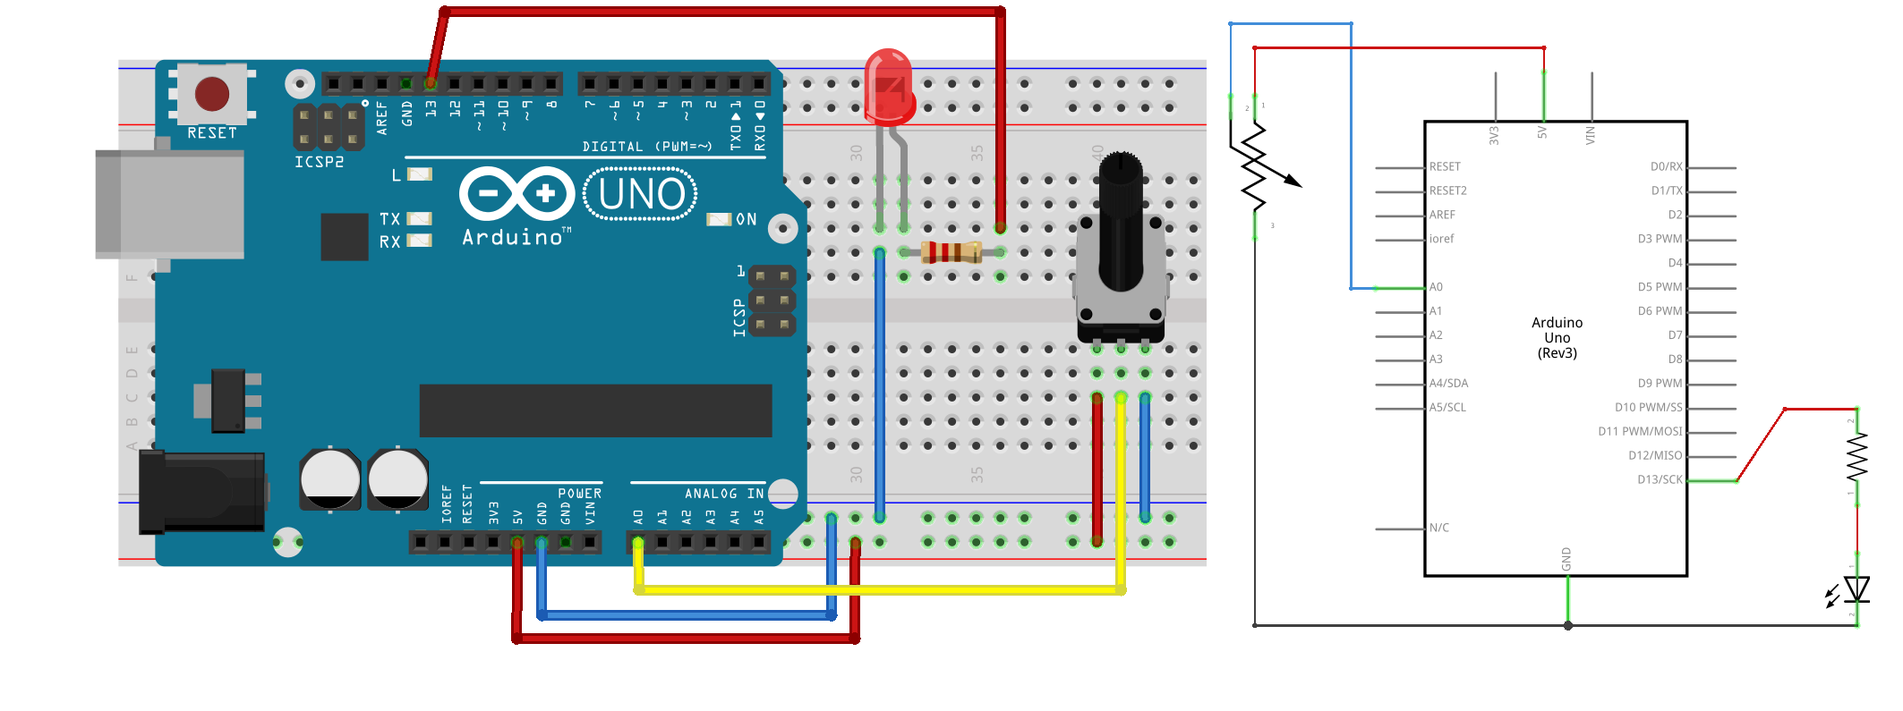
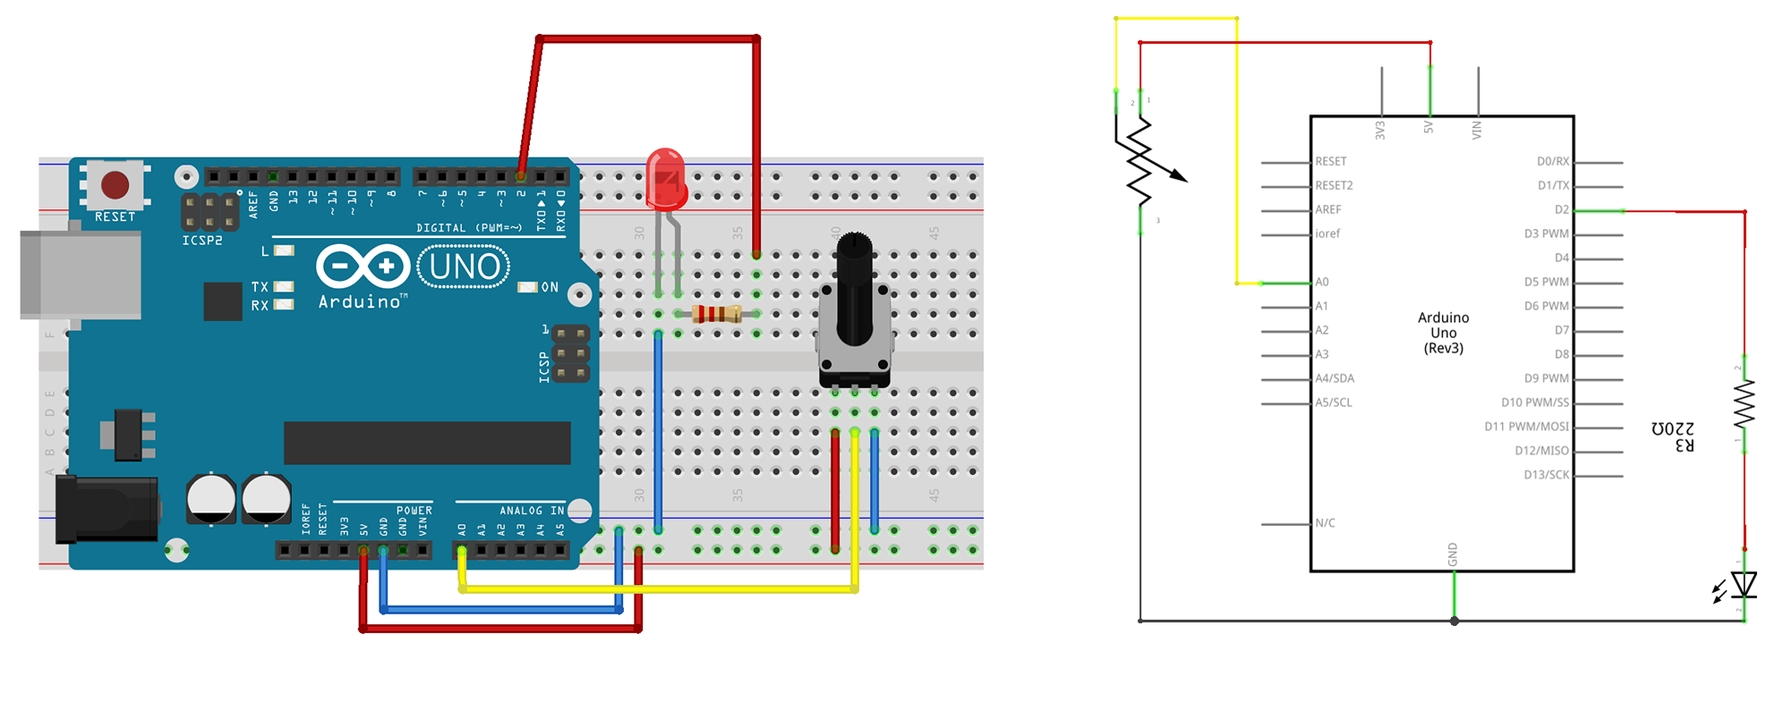
arduino tutorial update

diff --git a/ArduinoTutorial.md b/ArduinoTutorial.md
@@ -25,7 +25,7 @@ level 1 | level 2
 
 ## <a name="platform">2. The Arduino Platform
 
-Arduino is composed of two major parts: **the Arduino board**, which is the piece of hardware you work on when you build your objects, and **the Arduino IDE**, the software you run on your computer. In the IDE to write a sketch (a computer program with a set of instructions) that you upload to the Arduino board. This program tells the board what to do.
+Arduino is composed of two major parts: **the Arduino board**, which is the piece of hardware you work on when you build your objects, and **the Arduino IDE**, the software you run on your computer. In the IDE you write a sketch (a computer program with a set of instructions) that you upload to the Arduino board. This program tells the board what to do.
 
 Community
 https://forum.arduino.cc/
@@ -34,23 +34,20 @@ https://create.arduino.cc/projecthub
 
 [Hackster.io](https://www.hackster.io/) is the world’s fastest growing developer community for learning, programming, and building hardware.
 
-
-
-
 ## <a name="hardware">3. The Arduino Board
-The Arduino board is a small microcontroller board, which is a small circuit  that contains a whole computer on a small chip. This computer is at least a thousand times less powerful than your laptop, but it’s a lot cheaper and very useful to build interesting devices. 
+The Arduino board is a small microcontroller or, in other words, a small computer chip on a circuitboard. This computer is at least a thousand times less powerful than your laptop, but it’s a lot cheaper and very useful to build interesting devices. 
 
-will be using an [keyestudio Uno R3](https://www.keyestudio.com/keyestudio-uno-r3-atmega328p-development-board-usb-cable-for-arduino-p0513-p0513.html) arduino clone. 
+We will be using an [keyestudio Uno R3](https://www.keyestudio.com/keyestudio-uno-r3-atmega328p-development-board-usb-cable-for-arduino-p0513-p0513.html) arduino clone. 
 
 ![](images/arduino/keyesudio_arduino.jpg)
 
 Looking at the Arduino board: you’ll see a black chip with 28 *legs*. That chip is the ATmega328P, the heart of your board. 
-The arduino UNO features:
+The arduino UNO / ATmega328 features:
 - **14 Digital IO pins** (pins 0–13). These can be inputs or outputs, which is specified by the sketch you create.
 - **6 Analog In pins** (pins 0–5). These dedicated analog input pins take analog values (0-5V) (i.e. voltage readings from a sensor) and convert them into a number between 0 and 1023 (= 10 bit).
 - **6 PWM pins** (pins 3, 5, 6, 9, 10, and 11). These are actually 6 of the digital pins that can be reprogrammed for *analog output*.
 - The board can be **powered** from your computer’s USB port (5V), most USB chargers, or an AC adapter (7-12V recommended, 2.1mm barrel tip, center positive).
-- another Atmega16U2 programmed as a **USB-to-serial converter**.
+- And another Atmega16U2 programmed as a **USB-to-serial converter**.
 
 ![Image](images/arduino/uno_layout.jpg)
 *The complete parts  of an Arduino Uno*
@@ -59,24 +56,21 @@ The arduino reference can be found [here](https://www.arduino.cc/en/Reference/Bo
 The complete schematic of Arduino Uno can be found [here](https://www.arduino.cc/en/uploads/Main/arduino-uno-schematic.pdf).
 
 ### The keyestudio Sensor Kits
-We will use 4 slightly different Arduino starter kits developed by Keyes. Each kit contains a UNO R3 Controller board, some sensor modules (e.g. a joystick, three axis acceleration, rotary encoder, potentiometer, soil humidity, line tracking, LM35 temperature, photocell, vibration, gas, water, PIR, color, air quality, sound, ...), some actuators (e.g. LEDs, RGB LED, passive & active buzzer, relay, ...), a Breadboard, some resistors, buttons, jumper wire & a
+We will use Arduino starter kits developed by Keyes. Each kit contains a UNO R3 Controller board, some sensor modules (e.g. a joystick, three axis acceleration, rotary encoder, potentiometer, soil humidity, line tracking, LM35 temperature, photocell, vibration, gas, water, PIR, color, air quality, sound, ...), some actuators (e.g. LEDs, RGB LED, passive & active buzzer, relay, ...), a Breadboard, some resistors, buttons, jumper wire & a
 USB cable. 
 
-Keyestudio also provides a wiki with detailed tutorials using the provided hardware module. The tutorial include connection diagrams and sample codes.
-See the tutorials for [Kit 1](https://wiki.keyestudio.com/Ks0178_keyestudio_Sensor_Kit_for_ARDUINO_starters-_K1), [Kit 2](https://wiki.keyestudio.com/Ks0179_keyestudio_Sensor_Kit_for_ARDUINO_starters-_K2), [Kit 3](https://wiki.keyestudio.com/Ks0179_keyestudio_Sensor_Kit_for_ARDUINO_starters-_K3) & [Kit 4](https://wiki.keyestudio.com/Ks0179_keyestudio_Sensor_Kit_for_ARDUINO_starters-_K4)
+~~Keyestudio also provides a wiki with detailed tutorials using the provided hardware module. The tutorial include connection diagrams and sample codes.
+See the tutorials for [Kit 1](https://wiki.keyestudio.com/Ks0178_keyestudio_Sensor_Kit_for_ARDUINO_starters-_K1), [Kit 2](https://wiki.keyestudio.com/Ks0179_keyestudio_Sensor_Kit_for_ARDUINO_starters-_K2), [Kit 3](https://wiki.keyestudio.com/Ks0179_keyestudio_Sensor_Kit_for_ARDUINO_starters-_K3) & [Kit 4](https://wiki.keyestudio.com/Ks0179_keyestudio_Sensor_Kit_for_ARDUINO_starters-_K4)~~
 
 ## <a name="software">4. The Software (IDE)
-
-The programs you write for your Arduino are known as sketches. They are writen in C++.
-todo: iets meer uitleg
-
+The programs you write for your Arduino are known as sketches. They are written in C/C++.
 
 
 
 ### <a name="IDE">4.1 Arduino IDE Installation Guide
 Download the latest stable version for your operating system from the [Arduino Software Centre.](https://www.arduino.cc/en/Main/Software).        
 #### MacOS
-1. [Download the Application zip file](https://www.arduino.cc/en/Main/Software) whose name wil be something along the lines of  Arduino-1.8.8-macosx.zip.
+1. [Download the Application zip file](https://www.arduino.cc/en/Main/Software) whose name will be something along the lines of  Arduino-1.8.9-macosx.zip.
 2. Extract the zip file.
 3. Open the extracted folder. 
 ![Image](images/arduino/Mac_Download.jpg)
@@ -86,11 +80,15 @@ Download the latest stable version for your operating system from the [Arduino S
 
 #### Windows
 You have some options to install the Arduino IDE. Download & install it [manually](https://www.arduino.cc/en/Guide/Windows) or trough the [MS store](https://www.microsoft.com/fr-be/p/arduino-ide/9nblggh4rsd8?ocid=badge&rtc=1&activetab=pivot:overviewtab).
+
+#### Linux
+Get the latest version from the [download page](https://www.arduino.cc/en/Main/Software). You can choose between the 32, 64 and ARM versions. Install it following [this quick start guide](https://www.arduino.cc/en/Guide/Linux).
+
     
 ### <a name="portID">4.2 Port Identification & Board Selection
 The process for setting up your Arduino and connecting the software to your board differs also related to the computer you are using. 
 
-#### MacOS
+#### MacOS / Linux
 1. Go to Tools >> Serial Port >> then the port beginning with /dev/cu.usbmodem...
 ![port detection](images/arduino/portDetection.png)
 2. Select the right board. Go again to Tools >> Board and select "Arduino/Genuino Uno"
@@ -107,38 +105,53 @@ The process for setting up your Arduino and connecting the software to your boar
 ### <a name="UI">4.3 The User Interface
 ![The User INterface](images/arduino/arduino_ide.svg)
 
-## <a name="started">5. Getting Started: Hello World!<br>  𝔻𝕚𝕘𝕚𝕥𝕒𝕝 𝕆𝕦𝕥𝕡𝕦𝕥𝕤
+## <a name="started">5. Getting Started: Hello World!<br>☞ 𝔻𝕚𝕘𝕚𝕥𝕒𝕝 𝕆𝕦𝕥𝕡𝕦𝕥𝕤 
 
-A "Hello World!" in the Arduino sphere is a blinking LED. You just need an Arduino and a USB cable. Open an new file in the IDE, name and save it. Then type the following text into the Arduino sketch editor.
+
+A "Hello World!" in the Arduino sphere is a blinking LED.  
+You just need an Arduino and a USB cable. Open an new file in the IDE, name and save it.  
+Then type the following text into the Arduino sketch editor but you can skip the lines starting with a `//` as they are comments.
 
 ```C++
-const int ledPin = 13; // LED connected to digital pin 13  
+const int ledPin = 13; 
+// LED connected to digital pin 13  
  
-// the setup function runs once when you press reset or power the board
 void setup() {
-  // initialize digital pin 13 as an output.
+// the setup function runs once when you press reset 
+// or power the board
   pinMode(ledPin, OUTPUT);
+// initialize digital pin 13 as an output.
 }
 
-// the loop function runs over and over again forever
 void loop() {
-  digitalWrite(ledPin, HIGH);   // turn the LED on (HIGH is the voltage level)
-  delay(1000);               // wait for a second
-  digitalWrite(ledPin, LOW);    // turn the LED off by making the voltage LOW
-  delay(1000);               // wait for a second
+// the loop function runs over and over
+  digitalWrite(ledPin, HIGH);   
+  // turn the LED on (HIGH is the voltage level)
+  delay(1000);               
+  // wait for 1000 milliseconds or 1 second
+  digitalWrite(ledPin, LOW);    
+  // turn the LED off by making the voltage LOW
+  delay(1000);               
+  // wait for another second
 }
 ```
-Press the **Verify** button to check your code is correct. If everything is fine, you’ll see the message **“Done compiling”** appear at the bottom of the Arduino IDE. The Arduino IDE has translated your sketch into an executable program that can be run by the board.     
-Now you can **upload** it into the board. Press the Upload to I/O Board button. This will reset the board and force it to stop its current functions. Then sends the current compiled sketch is send to the board, got stored it in its memory. Then the board will run it. When it went fine you'll see the message **“Done uploading”** appear to let you know the process has completed correctly.    
+Press the **Verify** button to check your code is correct.  
+If everything is fine, you’ll see the message **“Done compiling”** appear at the bottom of the Arduino IDE. The Arduino IDE has translated your sketch into an executable program that can be run by the board.  
+Now you can **upload** it into the board.  
+Press the Upload to I/O Board button. This will reset the board and force it to stop its current functions. Then sends the current compiled sketch is send to the board, got stored it in its memory. Then the board will run it. When it went fine you'll see the message **“Done uploading”** appear to let you know the process has completed correctly.
+
 Note the 2 RX and TX LEDs on the board. These flash every time a byte is sent or received. They will flicker during the upload process. If you don’t see that, or if you get an error message instead of “Done uploading”, then there is a communication problem between your computer and Arduino. Make sure you’ve selected the right serial port and confirm that the correct model of Arduino is selected.
    
 Once the code is in your Arduino board, it will stay there until you put another sketch on it. 
 
 Assuming that the sketch has been uploaded correctly, you will see the LED turn on for a second and then turn off for a second.
 
-**A closer look at the code.**   
-`const int ledPin = 13;` Here we specify that the LED we’re blinking is connected to the Arduino pin 13. We are defining a variable of the **type int** with the **name ledpin** and a **value 13**. **Const** stands for constant. It modifies the behavior of the variable by making it **read-only**. The value of the variable  cannot be changed.     
-Alteratively you can use `#define lepdin 13`. It is like an automatic search and replace for your code. In this case, it’s telling Arduino to write the number 13 every time the word *ledPin* appears.
+
+:mag: **A closer look at the code**
+
+`const int ledPin = 13;`   
+Here we specify that the LED we’re blinking is connected to the Arduino pin 13. We are defining a variable of the **type int** with the **name ledpin** and a **value 13**. **Const** stands for constant. It modifies the behavior of the variable by making it **read-only**. The value of the variable  cannot be changed.     
+Alternatively you can use `#define lepdin 13`. It is like an automatic search and replace for your code. In this case, it’s telling Arduino to write the number 13 every time the word *ledPin* appears.
 
 Arduino always expects two functions to exists: `setup()` and `loop()`. The `setup()` function runs once at the beginning of program execution. The `loop()` function is called repeatedly during program execution.   
 
@@ -150,18 +163,18 @@ Arduino always expects two functions to exists: `setup()` and `loop()`. The `set
 
 Writing comments in Arduino; any text beginning with `//` is ignored or use this `/*` `*/` at the start & end for a block of comments. 
 
-See http://arduino.cc/en/Reference/HomePage for documentation of Arduino language constructs. 
+See the [reference page](http://arduino.cc/en/Reference/HomePage) for documentation of Arduino language constructs. 
 
 Do fiddle a bit with the parameters of the delays to see changes in blinking rhythm.
 
 ## 6. Wiring Diagrams & Schematics
-Next we want to wire an external LED to the board. I could explain you here in steps how to make the connections - a 220Ω resistor is connected to pin 13 on the Arduino, the other side of the resistor is then connected to the anode (longest) leg of an LED, the negative or cathode (shortest) leg of the LED is then connected Ground - but wouldn't it be much easier to draw you a sketch or diagram with the wires and components connected to the Arduino?!
+Next we want to wire an external LED to the board. I could explain you here in steps how to make the connections *- the anode (longest) leg of an LED is connected to pin 13 on the Arduino, the negative or cathode (shortest) leg of the LED is then connected Ground -* but wouldn't it be much easier to draw you a sketch or diagram with the wires and components connected to the Arduino?!
 
 Being able to read these diagrams is a very important part of building circuits. Schematics are universal pictograms that allow people all over the world to understand and build electronics. Every electronic component has a very unique schematic symbol. These symbols are then assembled into circuits using a variety of programs. You could also draw them out by hand. If you want to dive deeper in the world of electronics and circuit building, learning to read schematics is a very important step in doing so.
 
-Below is the schematics for the above circuit and, at the right, an much easier to read and wiring diagram (made with [Fritzing](http://fritzing.org/home/)). We will mainly use this kind of wiring diagams in this tutorial.
+Below is the schematics for the above circuit and, at the right, a much easier to read and wire diagram (made with [Fritzing](http://fritzing.org/home/)). We will mainly use this kind of wiring diagams in this tutorial.
 
-![image](images/arduino/blinking_scheme.png)
+![image](images/arduino/digitalOut_noBB.png)
 
 Have a look at this more elaborate tutorial [How to Read a Schematic](https://learn.sparkfun.com/tutorials/how-to-read-a-schematic). 
 
@@ -175,22 +188,28 @@ a component’s leg into one of the holes, and it will establish an electrical c
 More on [How to Use a Breadboard](https://learn.sparkfun.com/tutorials/how-to-use-a-breadboard/)
 
 So our wiring diagram on a breadboard will look more or less like this:
-![image](images/arduino/digitalOut_bb.png)
+![image](images/arduino/digitalOut.png)
 
-## 7. Next step: a Pushbutton<br>𝔻𝕚𝕘𝕚𝕥𝕒𝕝 𝕀𝕟𝕡𝕦𝕥𝕤
+## 7. Next step: a Pushbutton<br>☞ 𝔻𝕚𝕘𝕚𝕥𝕒𝕝 𝕀𝕟𝕡𝕦𝕥𝕤
 
-In our first example, the LED was our actuator, and our Arduino was controlling it. What is missing to complete the picture is a sensor. We will start with the simplest form of sensor available: a pushbutton.
+:triangular_flag_on_post:  
+In our first example, the LED was our actuator, and our Arduino was controlling it. If we image an outside parameter to take control over this LED we need **a sensor**. And the simplest form of sensor available is **a pushbutton**.
 
-Let's make our wiring diagram first.
+Let's make our wiring diagram first.  
+ 
 The circuit:
 - LED attached from pin 13 to ground
 - pushbutton attached to pin 2 from +5V
 - 10K resistor attached to pin 2 from ground
+ 
+![image](images/arduino/digitalIn.png)
 
-![image](images/arduino/digital_in.png)
+:scream_cat: Hold on! [What is a resistor]([https://learn.sparkfun.com/tutorials/resistors])?!  
 
+
+The code:
 ```c++
-// constants won't change. They're used here to set pin numbers:
+// constants don't change:
 const int buttonPin = 2;
 const int ledPin =  13;
 
@@ -208,7 +227,8 @@ void loop() {
   // read the state of the pushbutton value:
   buttonState = digitalRead(buttonPin);
 
-  // check if the pushbutton is pressed. If it is, the buttonState is HIGH:
+  // check if the pushbutton is pressed. 
+  // If it is, the buttonState is HIGH:
   if (buttonState == HIGH) {
     // turn LED on:
     digitalWrite(ledPin, HIGH);
@@ -218,15 +238,17 @@ void loop() {
   }
 }
 ```
-If everything is correct, the LED will light up when you press the button. Yes. Good.
+If everything is correct, the LED will light up when you press the button. Yes?! Good!
 
-New here is the `digitalRead()` function and the `if` `else` instructions. The latter is a very important one in programming. It allows the computer to make decisions.    
+:mag: **A closer look at the code**  
+Now here is the `digitalRead()` function and the `if` `else` instructions. The latter is a very important one in programming. It allows the computer to make decisions.       
 `digitalRead()` reads the value from a specified digital pin, either HIGH or LOW.
 
 Notice the difference between the ```==``` sign and the ```=```. The former is used when two entities are compared, and returns TRUE or FALSE. The latter assigns a value to a variable. 
 
+:triangular_flag_on_post:  
 Holding your finger on the button for as long as you need light is not practical. 
-Lets program a second behaviour that to make the on button “stick”. We therefore must implement some form of “memory”, in the form of a software mechanism that will remember when we have pressed the button and will keep the light on even after we have released it.
+Lets program **a second behaviour** that to make the on button “stick”. We therefore must implement some form of “memory”, in the form of a software mechanism that will remember when we have pressed the button and will keep the light on even after we have released it.
 
 ```c++ 
 // Turn on LED when the button is pressed
@@ -235,7 +257,6 @@ Lets program a second behaviour that to make the on button “stick”. We there
 const int buttonPin = 2;
 const int ledPin =  13;
 
-// variables will change:
 int buttonState = 0;  // variable for reading the pushbutton status
 int val = 0;          // val will be used to store the state of the input pin
 int old_val = 0;      // this variable stores the previous value of "val"
@@ -268,28 +289,34 @@ void loop() {
 }
 ```
 
-Now that you’ve learned how to use a pushbutton, you should know that there are many other very basic sensors that work according to the same principle: 
-* Switches are just like a pushbutton, but doesn’t automatically change state when released.
-* Thermostats is a switch that opens when the temperature reaches a set value.
-* Magnetic switches (or “reed relays”)
+:scream_cat: Hold on! Debouncing?! [Explained and illustrated with a better / non-freezing method](https://www.arduino.cc/en/tutorial/debounce). 
+
+:triangular_flag_on_post:   
+Now that you’ve learned how to use a pushbutton, you should know that there are other basic sensors that work according to the same *on/off* principle, as: 
+* **Switches** are just like a pushbutton, but doesn’t automatically change state when released.
+* **Thermostats** is a switch that opens when the temperature reaches a set value.
+* **Magnetic switches** (or “reed relays”)
 have two contacts that come together when they are near a magnet. 
-* Carpet switches are small mats that you can place under a carpet or a doormat to detect the presence of a human being (or heavy cat).
-* PIR or Passive InfraRed sensor. This small device triggers when a human being (or other living being) moves within its proximity. 
-* Tilt switches are electronic components that contains two contacts and a little metal ball. 
+* **Carpet switches** are small mats that you can place under a carpet or a doormat to detect the presence of a human being (or heavy cat).
+* **PIR** or Passive InfraRed sensor. This small device triggers when a human being (or other living being) moves within its proximity. 
+* **Tilt switches** are electronic components that contains two contacts and a little metal ball. 
+You can try some!
 
-## 8. Advanced Sensors<br>𝔸𝕟𝕒𝕝𝕠𝕘 𝕀𝕟𝕡𝕦𝕥𝕤
+## 8. Advanced Sensors<br>☞ 𝔸𝕟𝕒𝕝𝕠𝕘 𝕀𝕟𝕡𝕦𝕥𝕤
+:triangular_flag_on_post:  
+In order to read this type of sensor, we need **a different type of pin**. In the lowerright part of the Arduino board, you’ll see six pins marked **“Analog In”**.   
+These are special pins that can tell us not only whether there is a voltage applied to them, but if so, also its value. By using the `analogRead()` function, we can read the voltage applied to one of the pins. This function returns a number between 0 and 1023, which represents voltages between 0 and 5 volts. For example, if there is a voltage of 2.5 V applied to pin number 0, analogRead(0) returns 512.
 
-In order to read this type of sensor, we need a different type of pin. In the lowerright part of the Arduino board, you’ll see six pins marked “Analog In”. These are special pins that can tell us not only whether there is a voltage applied to them, but if so, also its value. By using the `analogRead()` function, we can read the voltage applied to one of the pins. This function returns a number between 0 and 1023, which represents voltages between 0 and 5 volts. For example, if there is a voltage of 2.5 V applied to pin number 0, analogRead(0) returns 512.
-
-
-The next sketch & electronics diagram demonstrates analog input by reading an analog sensor on analog pin 0 and turning on and off a light emitting diode(LED) connected to digital pin 13. The amount of time the LED will be on and off depends on the value obtained by analogRead().
+The next sketch & electronics diagram demonstrates analog input by reading an analog sensor on analog pin 0 and turning on and off a LED connected to digital pin 2. The amount of time the LED will be on and off depends on the value obtained by analogRead(). 
 
 The circuit:
-- potentiometer: center pin of the potentiometer to the analog input 0, one side pin (either one) to ground, the other side pin to +5V
-- LED: anode (long leg) attached to digital output 13, cathode (short leg) attached to ground.
+- potentiometer: center pin of the potentiometer to the analog input 0, one side pin (either one) to ground, the other side pin to +5V 
+- LED: a 220Ω resister bridges digital output 2 to the  anode (long leg) of the LED, the cathode (short leg) attached to ground.   
+Actually the resistor can also go in between the cathode and ground as in a series circuit the order of components does not matter as the current has to pass through all the parts!
 
 ![image](images/arduino/analogIn.png)
 
+The code:
 ```c++
 int sensorPin = A0;    // select the input pin for the potentiometer
 int ledPin = 13;      // select the pin for the LED
@@ -313,11 +340,15 @@ void loop() {
   delay(sensorValue);
 }
 ```
-*+ TODO extra voorbeeld met een voltage devider*
+:triangular_flag_on_post:  
+serial monitor   
+:triangular_flag_on_post:  
+voorbeeld met een voltage devider  
+:triangular_flag_on_post:
+andere sensoren
 
-
-## 9. PWM <br>𝔸𝕟𝕒𝕝𝕠𝕘 𝕆𝕦𝕥𝕡𝕦𝕥𝕤
-
+## 9. PWM <br>☞ 𝔸𝕟𝕒𝕝𝕠𝕘 𝕆𝕦𝕥𝕡𝕦𝕥𝕤
+:triangular_flag_on_post:  
 PWM, short for **Pulse Width Modulation**, is a technique used to encode analog signal level into digital ones. A computer cannot output analog voltage but only digital voltage values such as 0V or 5V. So we use a high resolution counter to encode a specific analog signal level by modulating the duty cycle of PMW. The PWM signal is also digitalized because in any given moment, fully on DC power supply is either 5V (ON), or 0V (OFF). The voltage or current is fed to the analog load (the device that uses the power) by repeated pulse sequence being ON or OFF.    
 The output voltage value is calculated via the on and off time. Output voltage = (turn on time/pulse time) * maximum voltage value
 
@@ -329,10 +360,12 @@ PWM has many applications: lamp brightness regulating, motor speed regulating, s
 2. The pulse period (The reciprocal of pulse frequency in 1 second)
 3. The voltage level（such as：0V-5V）
 
-There are 6 PMW interfaces on an Arduino Uno; Digital pins 3, 5, 6, 9, 10, and 11.    
-
+There are 6 PMW interfaces on an Arduino Uno; Digital pins 3, 5, 6, 9, 10, and 11.  
+    
+The circuit:
 ![image](images/arduino/analogOutSimple_bb.png)
 
+The code:
 ```c++
 int ledPin = 3;      // LED connected to digital pin 3
 int fadeAmount = 5;  // how many points to fade the LED by
@@ -366,6 +399,7 @@ In a previous experiment, we have done a *button-controlled LED*, using digital 
 
 The input of potentiometer is analog, so we connect it to analog port, and LED to PWM port.
 
+The circuit:
 ![image](images/arduino/analogOut.png)
 
 
@@ -374,6 +408,7 @@ In the program compiling process, we will use the analogWrite (PWM interface, an
 
 After downloading the program, when we rotate the potentiometer knob, we can see changes of the displaying value, also obvious change of the LED brightness on the breadboard.
 
+The code:
 ```c++
 /*
   Set the brightness of ledpin to a brightness specified by the
